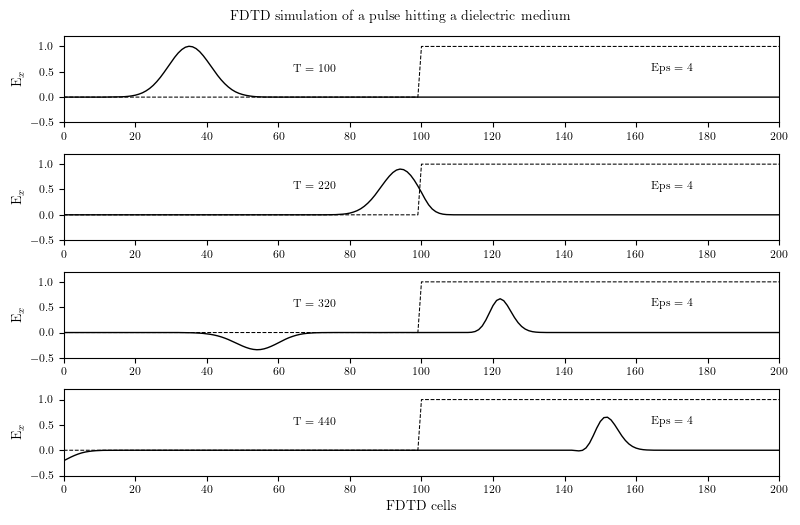
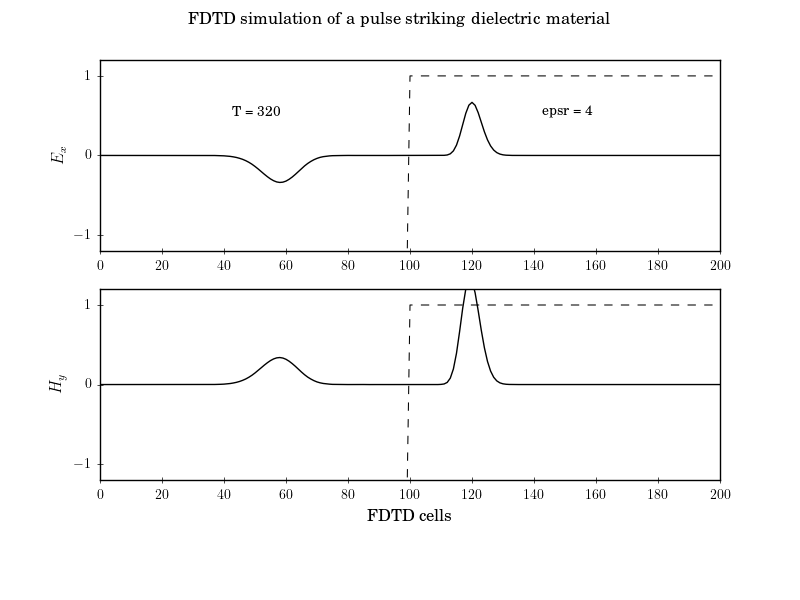
simulation of a pulse hitting a dielectric medium

diff --git a/fd1d/program/fd1d_1_3.py b/fd1d/program/fd1d_1_3.py
@@ -5,91 +5,73 @@
 
 """ Simulation of a pulse hitting a dielectric medium """
 
-import matplotlib
 import matplotlib.pyplot as plt
 import numpy as np
 
-matplotlib.rcParams["text.usetex"] = True
-matplotlib.rcParams["pgf.texsystem"] = "pdflatex"
-matplotlib.rcParams.update(
-    {
-        "font.family": "serif",
-        "font.size": 8,
-        "axes.labelsize": 10,
-        "axes.titlesize": 10,
-        "figure.titlesize": 10,
-    }
-)
-
-ke = 201
-ex = np.zeros(ke)
-hy = np.zeros(ke)
-
-# Pulse parameters
-t0 = 40
-spread = 12
-
-boundary_low = [0, 0]
-boundary_high = [0, 0]
-
-# Create Dielectric Profile
-epsilon = 4
-cb = np.ones(ke)
-cb = 0.5 * cb
-cb[100:] = 0.5 / epsilon
-
-nsteps = 440
-
-# desired points for plotting
-points = [
-    {"num_steps": 100, "data": None, "label": " "},
-    {"num_steps": 220, "data": None, "label": " "},
-    {"num_steps": 320, "data": None, "label": " "},
-    {"num_steps": 440, "data": None, "label": "FDTD cells"},
-]
-
-# FDTD loop
-for time_step in range(1, nsteps + 1):
-
-    # calculate the Ex field
-    for k in range(1, ke):
-        ex[k] = ex[k] + cb[k] * (hy[k - 1] - hy[k])
-
-    # put a Gaussian pulse at the low end
-    ex[5] = ex[5] + np.exp(-0.5 * ((t0 - time_step) / spread) ** 2)
-
-    # absorbing boundary conditons
-    ex[0] = boundary_low.pop(0)
-    boundary_low.append(ex[1])
-    ex[ke - 1] = boundary_high.pop(0)
-    boundary_high.append(ex[ke - 2])
-
-    # calculate the Hy field
-    for k in range(ke - 1):
-        hy[k] = hy[k] + 0.5 * (ex[k] - ex[k + 1])
-
-    # save data at certain points for plotting
-    for plot_data in points:
-        if time_step == plot_data["num_steps"]:
-            plot_data["data"] = np.copy(ex)
-
-fig = plt.figure(figsize=(8, 5.25))
-fig.suptitle(r"FDTD simulation of a pulse hitting a dielectric medium")
+plt.style.use("classic")
+plt.style.use("../pyplot.mplstyle")
 
 
-def plotting(data, timestep, label):
-    """plot of E field at a single time step"""
-    ax.plot(data, color="k", linewidth=1)
-    ax.plot((0.5 / cb - 1) / 3, "k--", linewidth=0.75)
-    ax.set(xlim=(0, 200), ylim=(-0.5, 1.2), xlabel=r"{}".format(label), ylabel=r"E$_x$")
-    ax.set(xticks=np.arange(0, 220, 20), yticks=np.arange(-0.5, 1.2, 0.5))
-    ax.text(70, 0.5, "T = {}".format(timestep), horizontalalignment="center")
-    ax.text(170, 0.5, "Eps = {}".format(epsilon), horizontalalignment="center")
+def visualize(ns: int, nx: int, epsr: int, cb: np.ndarray, ex: np.ndarray, hy: np.ndarray) -> None:
+	fig, (ax1, ax2) = plt.subplots(2, sharex=False, gridspec_kw={"hspace": 0.2})
+	fig.suptitle(r"FDTD simulation of a pulse striking dielectric material")
+	medium = (0.5/cb - 1)/3
+	medium[medium==0] = -1.5
+	ax1.plot(ex, "k", lw=1)
+	ax1.plot(medium, 'k--', lw=0.75)
+	ax1.text(nx/4, 0.5, f"T = {ns}", horizontalalignment="center")
+	ax1.text(3*nx/4, 0.5, f"epsr = {epsr}", horizontalalignment="center")
+	ax1.set(xlim=(0, nx-1), ylim=(-1.2, 1.2), ylabel=r"$E_x$")
+	ax1.set(xticks=range(0, nx+1, round(nx//10,-1)), yticks=np.arange(-1, 1.2, 1))
+	ax2.plot(hy, "k", lw=1)
+	ax2.plot(medium, 'k--', lw=0.75)
+	ax2.set(xlim=(0, nx-1), ylim=(-1.2, 1.2), xlabel=r"FDTD cells", ylabel=r"$H_y$")
+	ax2.set(xticks=range(0, nx+1, round(nx//10,-1)), yticks=np.arange(-1, 1.2, 1))
+	plt.subplots_adjust(bottom=0.2, hspace=0.45)
+	plt.savefig("fd1d_1_3.png")
 
 
-for subplot_num, plot_data in enumerate(points):
-    ax = fig.add_subplot(4, 1, subplot_num + 1)
-    plotting(plot_data["data"], plot_data["num_steps"], plot_data["label"])
+def gaussian(t: int, t0: int, sigma: float) -> float:
+	return np.exp(-0.5 * ((t - t0)/sigma)**2)
 
-plt.tight_layout()
-plt.savefig("fd1d_1_3.png")
+
+def field(t: int, nx: int, cb: np.ndarray, ex: np.ndarray, hy: np.ndarray, lb: np.ndarray, hb: np.ndarray):
+	# calculate the Hy field
+	hy[0:nx-1] = hy[0:nx-1] + 0.5 * (ex[0:nx-1] - ex[1:nx])
+	# calculate the Ex field
+	ex[1:nx] = ex[1:nx] + cb[1:nx] * (hy[0:nx-1] - hy[1:nx])
+	# put a Gaussian pulse at the low end
+	ex[1] = ex[1] + gaussian(t, 40, 12)
+	# absorbing boundary conditions
+	ex[0], lb[0], lb[1] = lb[0], lb[1], ex[1]
+	ex[nx-1], hb[0], hb[1] = hb[0], hb[1], ex[nx-2]
+
+
+def dielectric(nx: int, epsr: float = 1) -> np.ndarray:
+	cb = 0.5 * np.ones(nx, dtype=np.float64)
+	cb[nx//2:] = 0.5/epsr
+	return cb
+
+
+def main():
+
+	nx: int = 201
+	ns: int = 320
+
+	ex = np.zeros(nx, dtype=np.float64)
+	hy = np.zeros(nx, dtype=np.float64)
+
+	lb = np.zeros(2, dtype=np.float64)
+	hb = np.zeros(2, dtype=np.float64)
+
+	epsr: float = 4 # relative permittivity
+	cb: np.ndarray = dielectric(nx, epsr)
+
+	for t in range(1, ns+1):
+		field(t, nx, cb, ex, hy, lb, hb)
+
+	visualize(ns, nx, epsr, cb, ex, hy)
+
+
+if __name__ == "__main__":
+	main()
